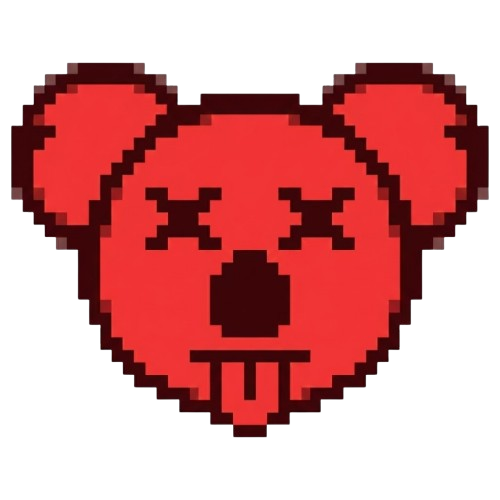
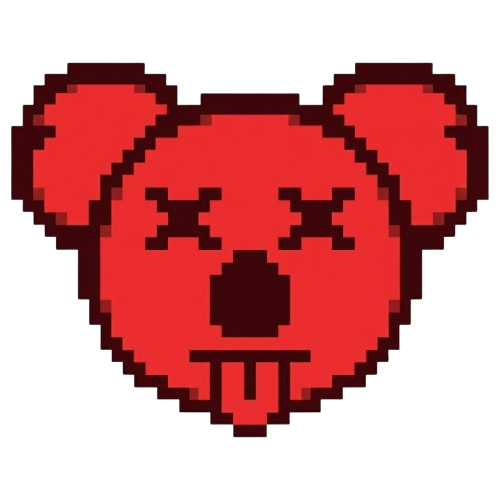
updated koalas

diff --git a/src/main/java/view/overlays/AddEditQuestionOverlay.java b/src/main/java/view/overlays/AddEditQuestionOverlay.java
@@ -39,6 +39,15 @@ public class AddEditQuestionOverlay extends OverlayView {
         if (isEditing){
             this.selectedDifficulty = q.getDifficulty();
         }
+
+        //we enable closing the overlay when the user clicks the X button
+        addWindowListener(new java.awt.event.WindowAdapter() {
+            @Override
+            public void windowClosing(java.awt.event.WindowEvent e) {
+                close();
+            }
+        });
+
         initUI();
     }
 
@@ -136,10 +145,10 @@ public class AddEditQuestionOverlay extends OverlayView {
         JPanel difficultyPanel = new JPanel(new FlowLayout(FlowLayout.LEFT, 20, 0));
         difficultyPanel.setOpaque(false);
         difficultyPanel.add(createLabel("Select Difficulty:"), BorderLayout.WEST);
-        btnEasy = createKoalaButton("/green-koala.png", "Easy", QuestionDifficulty.EASY);
-        btnMedium = createKoalaButton("/yellow-koala.png", "Medium", QuestionDifficulty.MEDIUM);
-        btnHard = createKoalaButton("/red-koala.png", "Hard", QuestionDifficulty.HARD);
-        btnMaster = createKoalaButton("/master-koala.png", "Master", QuestionDifficulty.MASTER);
+        btnEasy = createKoalaButton("/green-koala-pixel.png", "Easy", QuestionDifficulty.EASY);
+        btnMedium = createKoalaButton("/yellow-koala-pixel.png", "Medium", QuestionDifficulty.MEDIUM);
+        btnHard = createKoalaButton("/red-koala-pixel.png", "Hard", QuestionDifficulty.HARD);
+        btnMaster = createKoalaButton("/master-koala-pixel.png", "Master", QuestionDifficulty.MASTER);
         difficultyPanel.add(btnEasy);
         difficultyPanel.add(btnMedium);
         difficultyPanel.add(btnHard);
